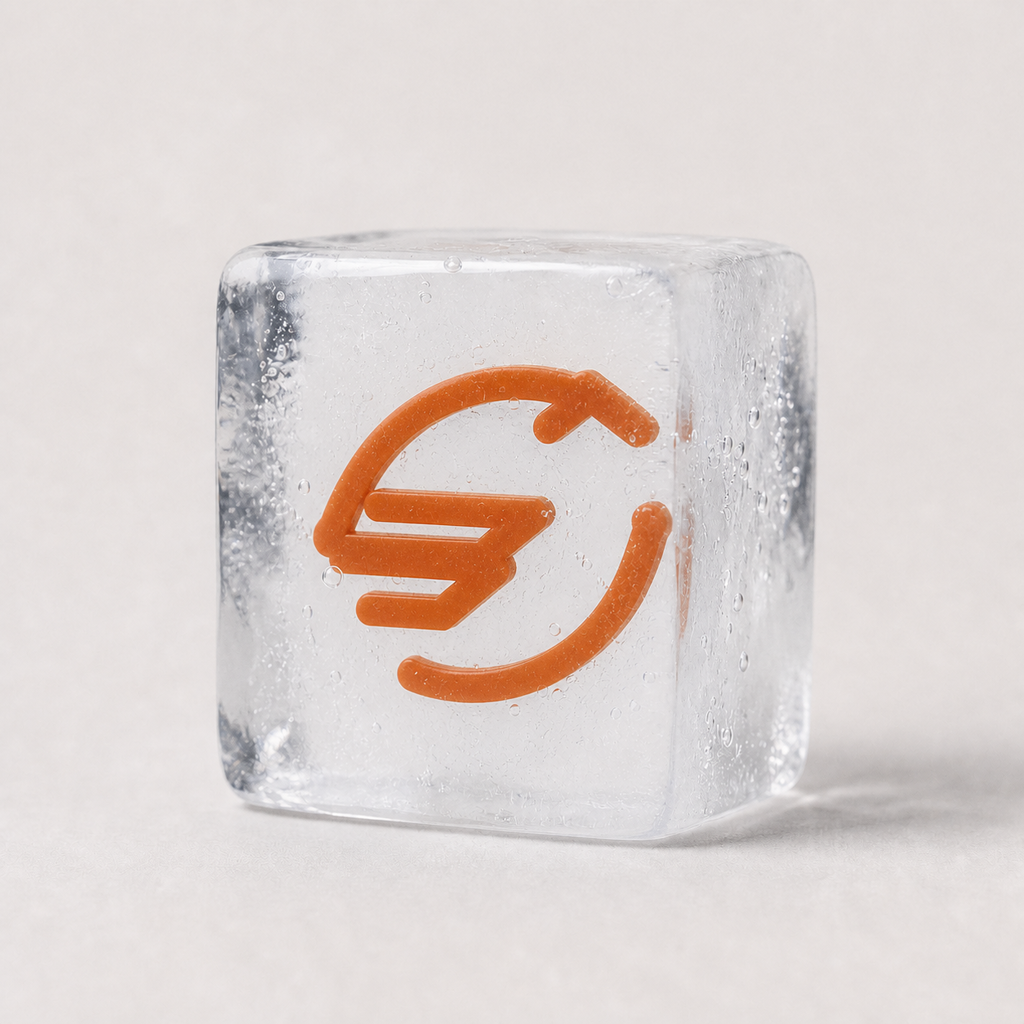
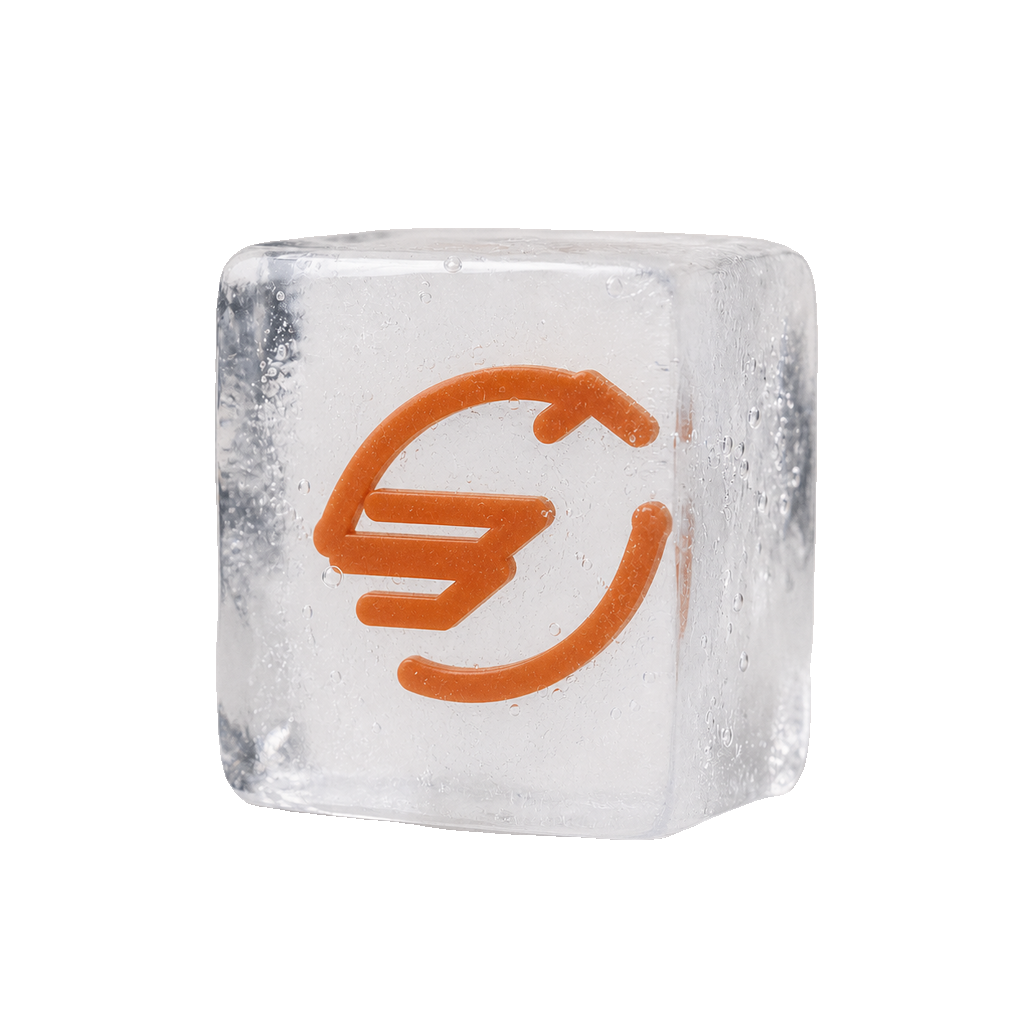
fix(brand): make ice hero background transparent

diff --git a/assets/brand/README.md b/assets/brand/README.md
@@ -7,10 +7,10 @@ The Hermes mark belongs to the shared Heliantheon visual family: geometric const
 | `mark.svg` | Primary full-color vector mark |
 | `mark-monochrome.svg` | Single-color mark for neutral surfaces |
 | `icon-512.png` | Raster icon for platforms that do not accept SVG |
-| `hero-ice.png` | Ice-block hero for README and promotional use |
+| `hero-ice.png` | Transparent ice-block hero for README and promotional use |
 
 - Accent: `#B94E20`
 - Keep clear space around the mark equal to at least one eighth of its width.
 - Do not stretch, rotate, recolor, add effects, or combine the mark with another product emblem.
 - Prefer the primary mark on white or very light neutral backgrounds; use the monochrome mark when color is unavailable.
-- Use the ice-block hero at 256 px or larger; do not use it as a favicon or small interface icon.
+- Use the ice-block hero at 256 px or larger, keep its canvas transparent, and do not use it as a favicon or small interface icon.
